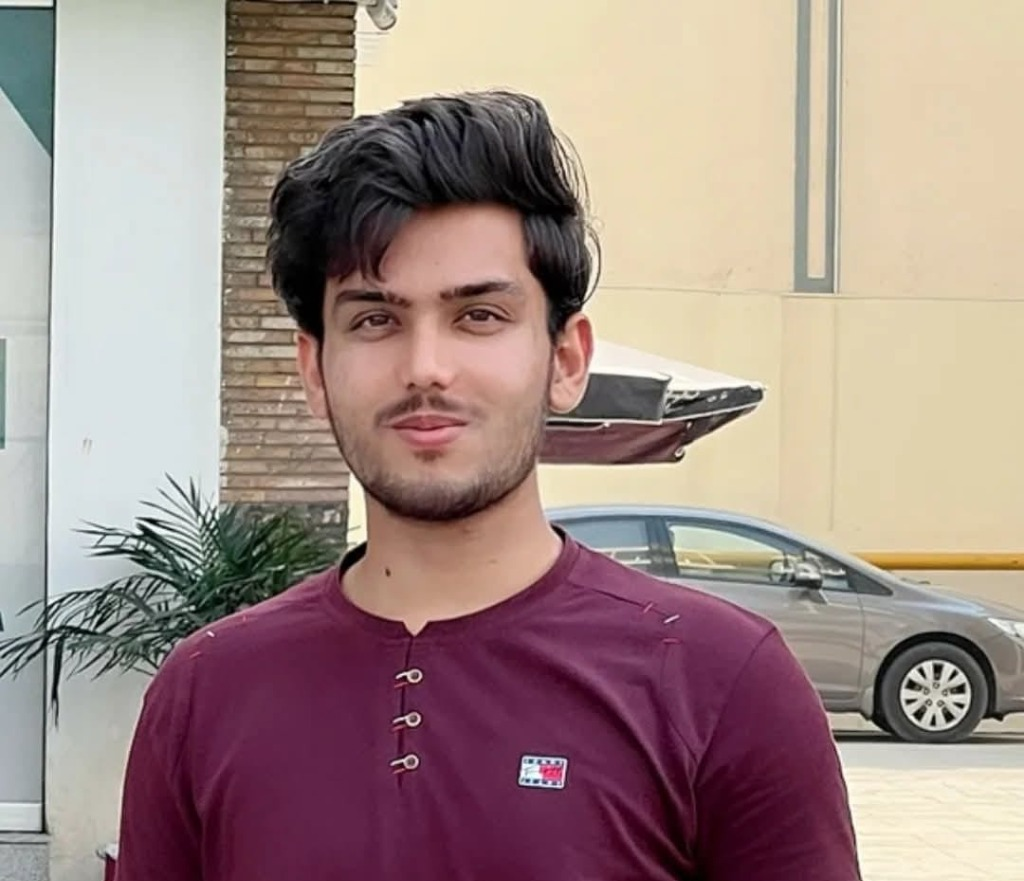
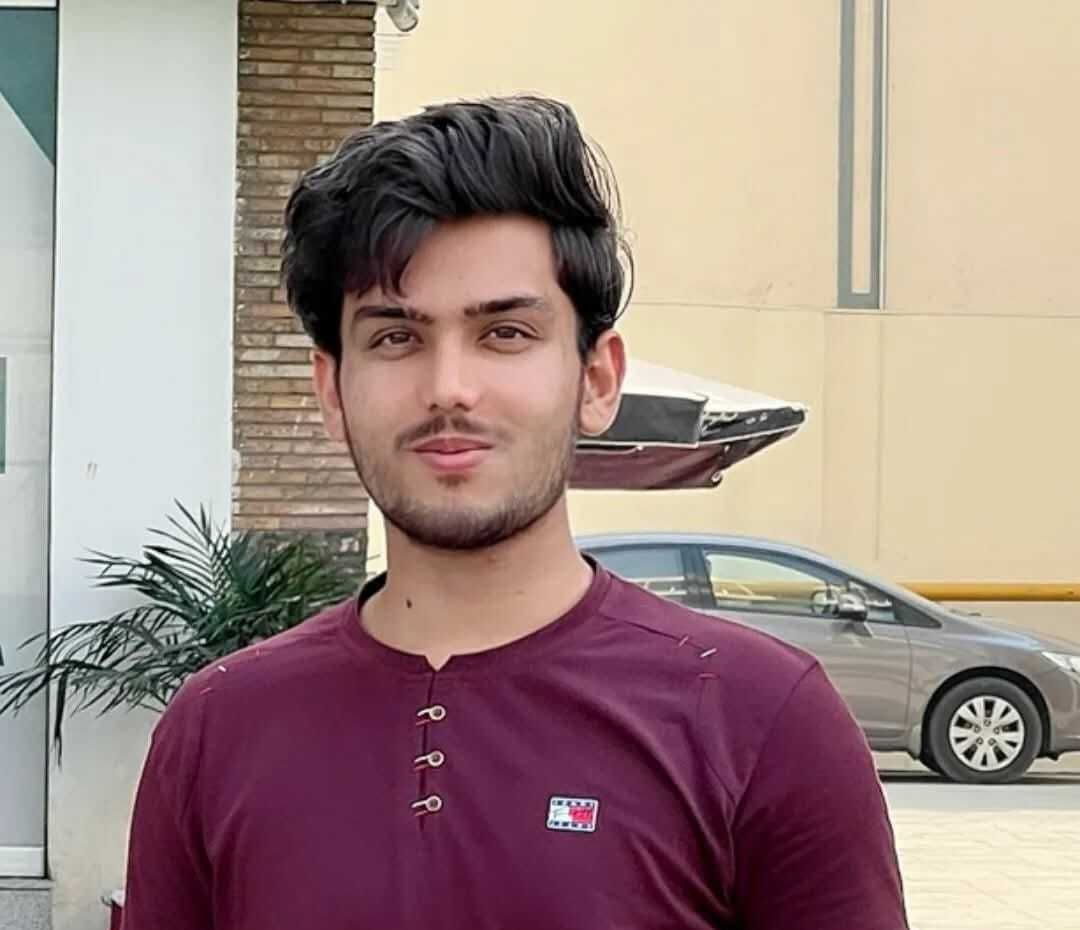
Update portfolio

diff --git a/components/Hero.tsx b/components/Hero.tsx
@@ -6,7 +6,7 @@ import { siteConfig } from "@/data/contact";
 
 const highlights = [
   { label: "Internships", value: "3" },
-  { label: "Projects", value: "5+" },
+  { label: "Projects", value: "20+" },
   { label: "Certifications", value: "7" },
 ];
 
